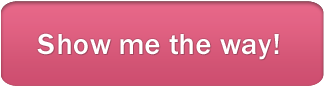
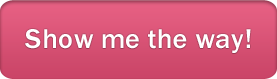
Changed buttons, get directions now works.

Changed region(s): [[0.0866, 0.3544, 0.9242, 0.6835], [0.0, 0.0, 1.0, 1.0]]

diff --git a/PlaceMapView.m b/PlaceMapView.m
@@ -13,6 +13,25 @@
 @implementation PlaceMapView
 
 @synthesize delegate = mDelegate;
+@synthesize locationManager;
+
+- (void)locationManager:(CLLocationManager *)manager
+    didUpdateToLocation:(CLLocation *)newLocation
+           fromLocation:(CLLocation *)oldLocation {
+    myLocation = newLocation.coordinate;
+}
+
+- (void)locationManager:(CLLocationManager *)manager
+       didFailWithError:(NSError *)error
+{
+	NSLog(@"Error: %@", [error description]);
+}
+
+- (void) awakeFromNib {
+    self.locationManager = [[[CLLocationManager alloc] init] autorelease];
+    self.locationManager.delegate = self; // send loc updates to myself
+    [locationManager startUpdatingLocation];
+}
 
 - (void) setLatLong:(CLLocationCoordinate2D)loc {
     //pacific st. 36.97177,-122.026584&fspn=0.00984,0.013497
@@ -22,6 +41,8 @@
     [mMapView setRegion:region animated:YES];
     
     MKPlacemark * dest = [[MKPlacemark alloc] initWithCoordinate:loc addressDictionary:nil];
+    
+    placeLocation = loc;
     
     [mMapView addAnnotation:dest];
 
@@ -36,6 +57,10 @@
     [mDelegate hideMapView];
 }
 
+- (IBAction) getDirections:(id)sender {
+    [[UIApplication sharedApplication] openURL:[[NSURL alloc] initWithString:[NSString stringWithFormat:@"http://maps.google.com/maps?daddr=%f,%f&saddr=%f,%f", placeLocation.latitude, placeLocation.longitude, myLocation.latitude, myLocation.longitude]]];
+}
+
 - (MKAnnotationView *)mapView:(MKMapView *)mapView viewForAnnotation:(id <MKAnnotation>)annotation {
     MKPinAnnotationView *pinView = (MKPinAnnotationView*)[mapView dequeueReusableAnnotationViewWithIdentifier:@"Pin"];
     if(pinView == nil) {
@@ -46,6 +71,11 @@
         pinView.annotation = annotation;
     }
     return pinView;
+}
+
+- (void) dealloc {
+    [locationManager release];
+    [super dealloc];
 }
                                   
                                   

diff --git a/PlaceMapView.h b/PlaceMapView.h
@@ -9,17 +9,31 @@
 #import <UIKit/UIKit.h>
 #import <MapKit/MapKit.h>
 #import <QuartzCore/QuartzCore.h>
+#import <CoreLocation/CoreLocation.h>
 
 @class PlaceViewController;
 
-@interface PlaceMapView : UIView <MKMapViewDelegate> {
+@interface PlaceMapView : UIView <MKMapViewDelegate, CLLocationManagerDelegate> {
     PlaceViewController * mDelegate;
     IBOutlet MKMapView * mMapView;
+    
+    CLLocationCoordinate2D placeLocation;
+    CLLocationManager * locationManager;
+    CLLocationCoordinate2D myLocation;
 }
 
 @property (nonatomic, retain) PlaceViewController * delegate;
+@property (nonatomic, retain) CLLocationManager *locationManager;  
+
+- (void)locationManager:(CLLocationManager *)manager
+    didUpdateToLocation:(CLLocation *)newLocation
+           fromLocation:(CLLocation *)oldLocation;
+
+- (void)locationManager:(CLLocationManager *)manager
+       didFailWithError:(NSError *)error;
 
 - (void) roundCorners;
 - (void) setLatLong:(CLLocationCoordinate2D)loc;
+- (IBAction)getDirections:(id)sender;
 
 @end
